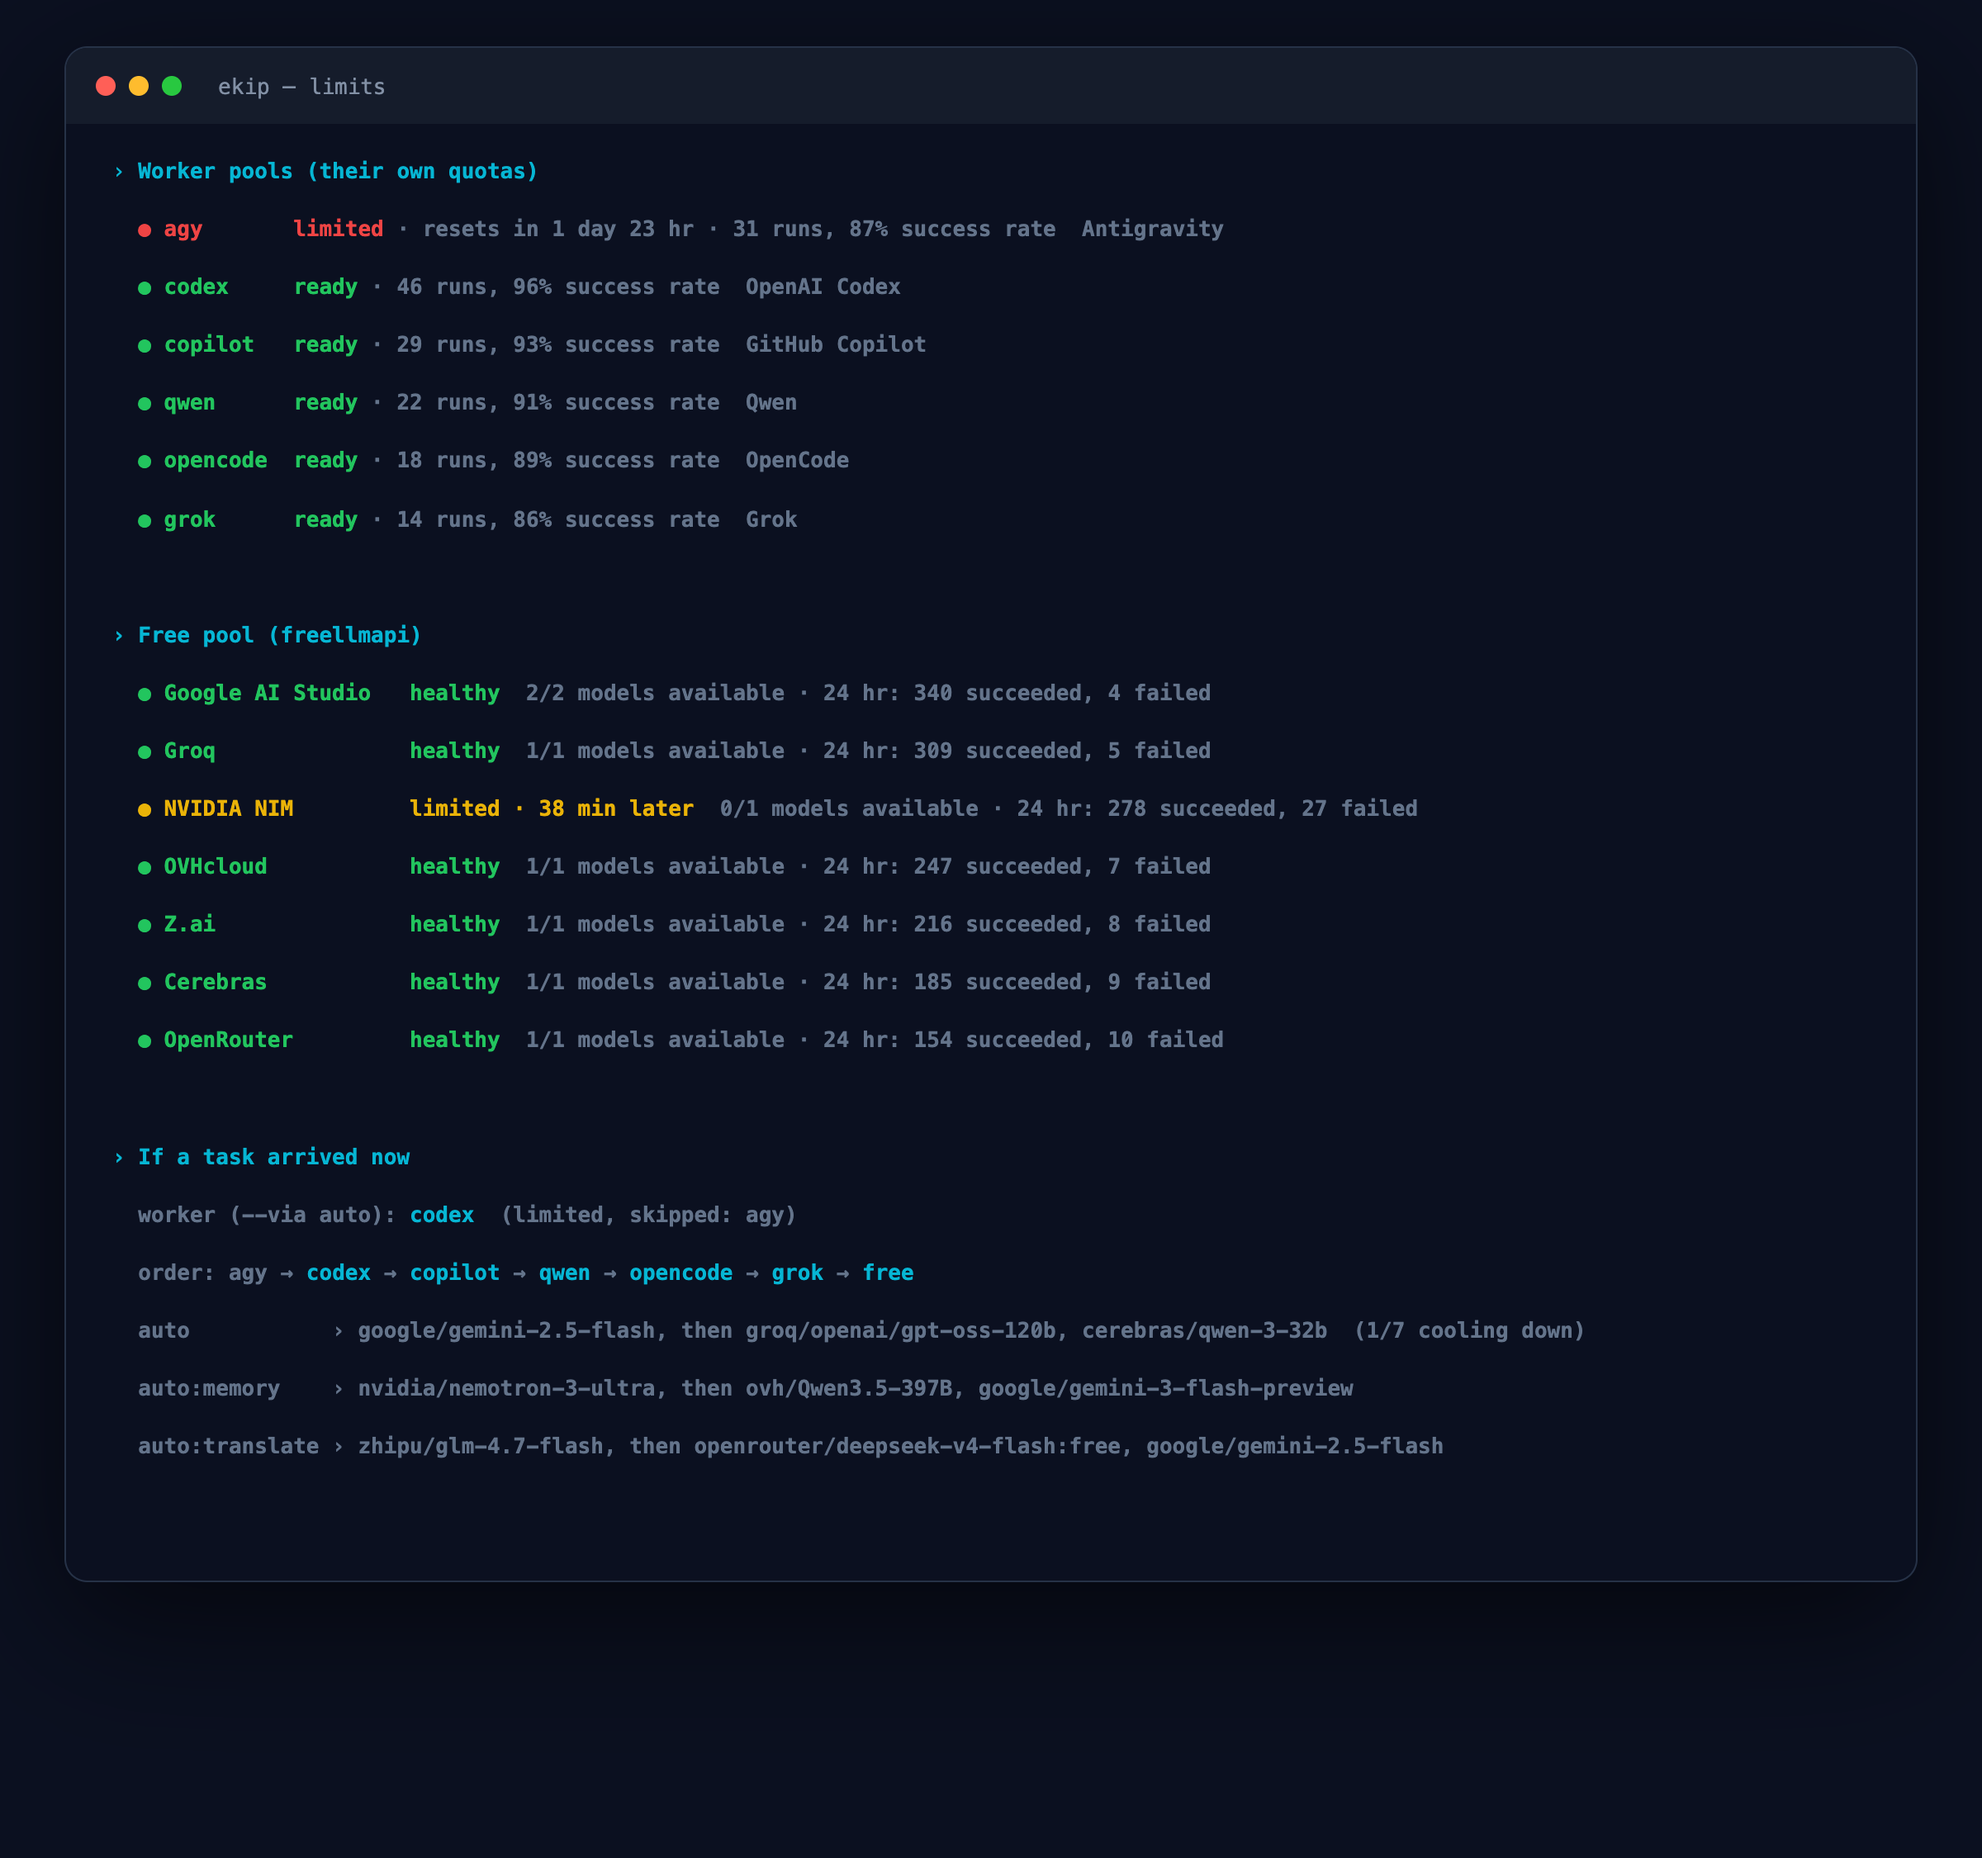
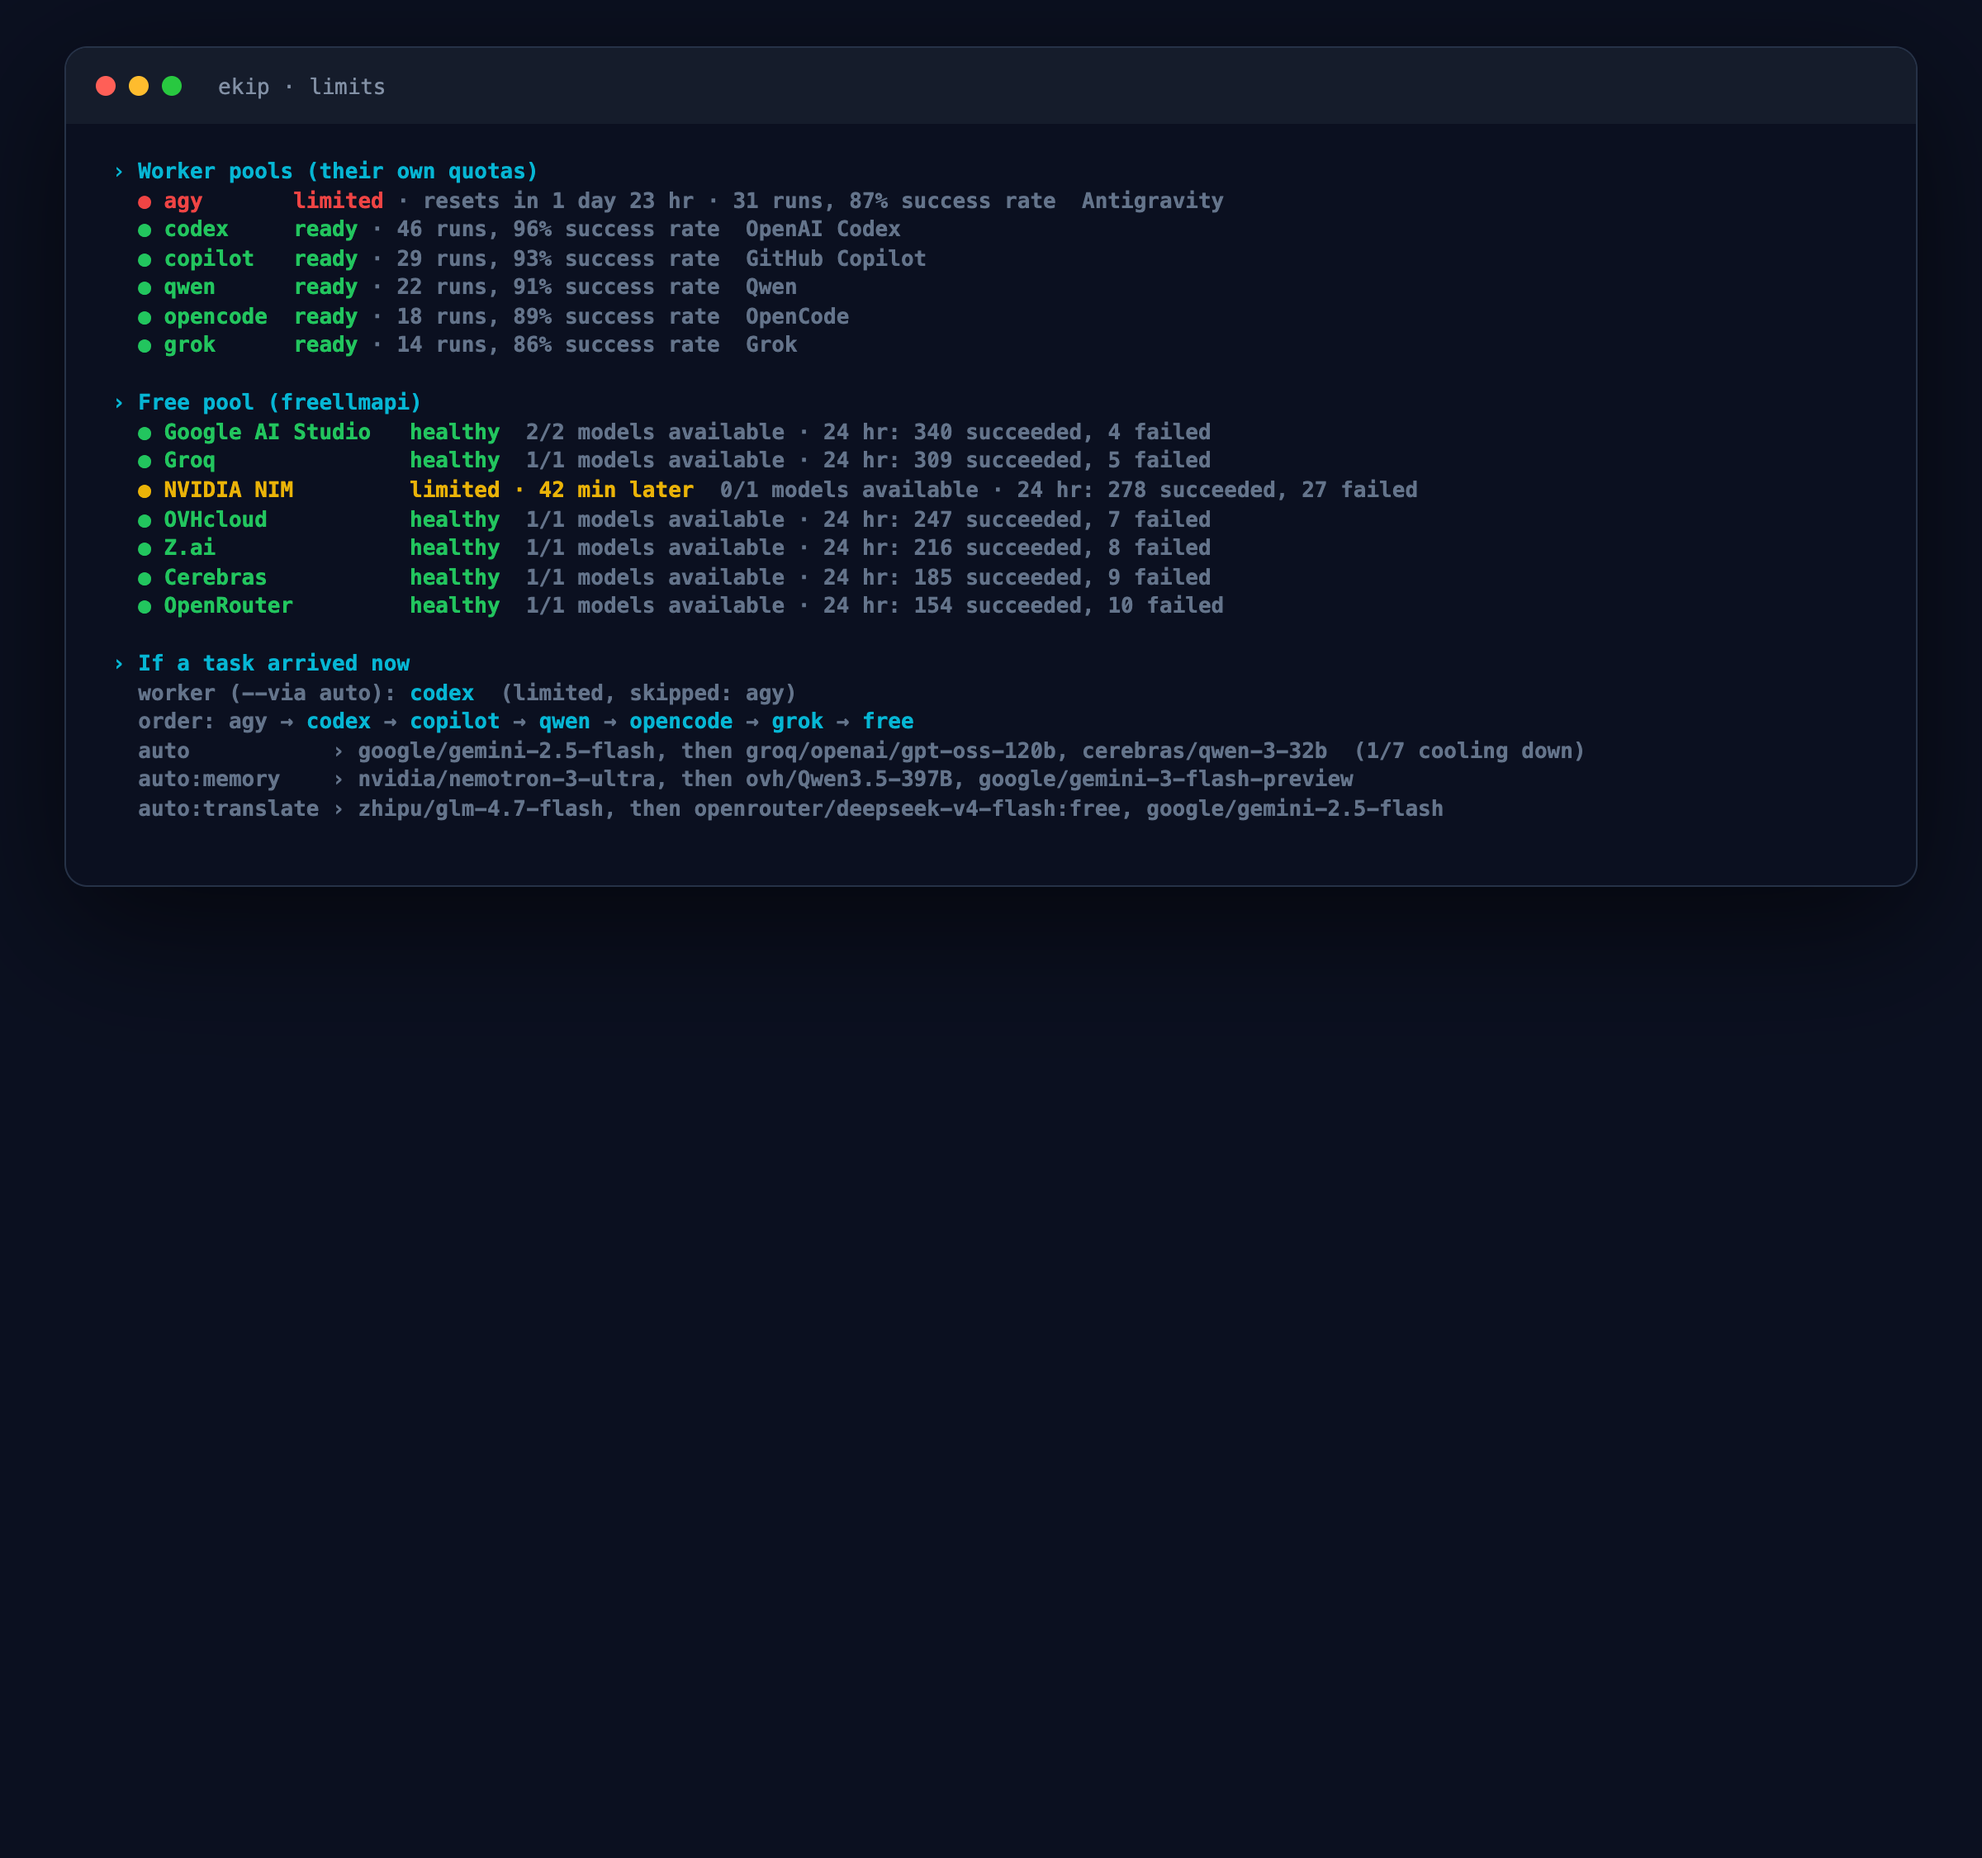
README: screenshots laid out by shape (tasks full width, pools and code map side by side, a 16:10 terminal); terminal renders without double line breaks; English percent format in the task pane

diff --git a/plugin/lib/tasks.js b/plugin/lib/tasks.js
@@ -119,7 +119,7 @@ function render(t) {
   const steps = t.steps.map((s, i) => {
     const icon = s.status === "done" ? c.green("✓") : s.status === "running" ? c.yellow("▶") : s.status === "failed" ? c.red("✗") : s.status === "skipped" ? c.gray("–") : c.gray("○");
     const label = s.status === "running" ? c.bold(s.title) : s.status === "pending" ? c.gray(s.title) : s.title;
-    const extra = s.status === "running" && s.startedAt ? c.gray(` (${fmtDur(Date.now() - Date.parse(s.startedAt))}${s.pct != null ? ` · %${s.pct}` : ""})`) : "";
+    const extra = s.status === "running" && s.startedAt ? c.gray(` (${fmtDur(Date.now() - Date.parse(s.startedAt))}${s.pct != null ? (lang === "en" ? ` · ${s.pct}%` : ` · %${s.pct}`) : ""})`) : "";
     const stall = stalledFor(s);
     const warn = stall ? `  ${c.red(`⚠ ${fmtDur(stall)} ${lang === "en" ? "without progress" : "dır ilerleme yok"}`)}` : "";
     const det = s.status === "running" && s.detail ? `\n${fit(`       ${c.gray(s.detail)}`)}` : "";
@@ -141,7 +141,7 @@ function renderCompact(t) {
   const p = percent(t);
   const e = eta(t);
   const done = t.steps.filter((s) => s.status === "done" || s.status === "skipped").length;
-  const running = t.steps.filter((s) => s.status === "running").map((s) => { const st = stalledFor(s); return `${st ? c.red("⚠") : c.yellow("▶")} ${s.title}${s.pct != null ? c.gray(` %${s.pct}`) : ""}${st ? c.red(` ${fmtDur(st)} ${lang === "en" ? "without progress" : "dır ilerleme yok"}`) : s.detail ? c.gray(` · ${s.detail}`) : ""}`; });
+  const running = t.steps.filter((s) => s.status === "running").map((s) => { const st = stalledFor(s); return `${st ? c.red("⚠") : c.yellow("▶")} ${s.title}${s.pct != null ? c.gray(lang === "en" ? ` ${s.pct}%` : ` %${s.pct}`) : ""}${st ? c.red(` ${fmtDur(st)} ${lang === "en" ? "without progress" : "dır ilerleme yok"}`) : s.detail ? c.gray(` · ${s.detail}`) : ""}`; });
   const failed = t.steps.filter((s) => s.status === "failed").map((s) => `${c.red("✗")} ${s.title}`);
   const state = t.status === "done" ? c.green(tr("bitti")) : t.status === "failed" ? c.red(tr("takıldı")) : t.status === "cancelled" ? c.gray(tr("iptal")) : "";
   const when = e ? c.gray(` · ${fmtDur(Date.parse(e) - Date.now())} ${lang === "en" ? "left" : "kaldı"}`) : "";

diff --git a/README.md b/README.md
@@ -79,16 +79,16 @@ How memory works and why vectors matter, in depth: [docs/memory.md](docs/memory.
 
 ## See it
 
+<p align="center"><img src="docs/screenshots/panel-tasks-dark.png" alt="Tasks page" width="100%"><br><sub><b>Tasks</b> · every request as live steps; a step that stops moving is flagged</sub></p>
+
 <table>
   <tr>
-    <td width="50%"><img src="docs/screenshots/panel-tasks-dark.png" alt="Tasks: live steps, a stalled step flagged, the active agent"><br><sub><b>Tasks</b> · live steps, stalls flagged, the agent on each</sub></td>
-    <td width="50%"><img src="docs/screenshots/panel-pools-dark.png" alt="Pools: worker quotas and where a new task would go"><br><sub><b>Pools</b> · who is limited, where a new task goes</sub></td>
-  </tr>
-  <tr>
-    <td width="50%"><img src="docs/screenshots/terminal-tasks.png" alt="The task pane in the terminal"><br><sub><b>Terminal</b> · the same tasks next to your Claude session</sub></td>
-    <td width="50%"><img src="docs/screenshots/panel-codemap-dark.png" alt="Code map of a project"><br><sub><b>Code map</b> · every project indexed into a graph</sub></td>
+    <td width="50%"><img src="docs/screenshots/panel-pools-dark.png" alt="Pools page"><br><sub><b>Pools</b> · who is limited, and where a new task would go</sub></td>
+    <td width="50%"><img src="docs/screenshots/panel-codemap-dark.png" alt="Code map page"><br><sub><b>Code map</b> · every project indexed into a graph</sub></td>
   </tr>
 </table>
+
+<p align="center"><img src="docs/screenshots/terminal-tasks-wide.png" alt="Task pane in the terminal" width="100%"><br><sub><b>Terminal</b> · the same tasks in a pane next to your Claude session</sub></p>
 
 ## Agents that talk to each other
 
